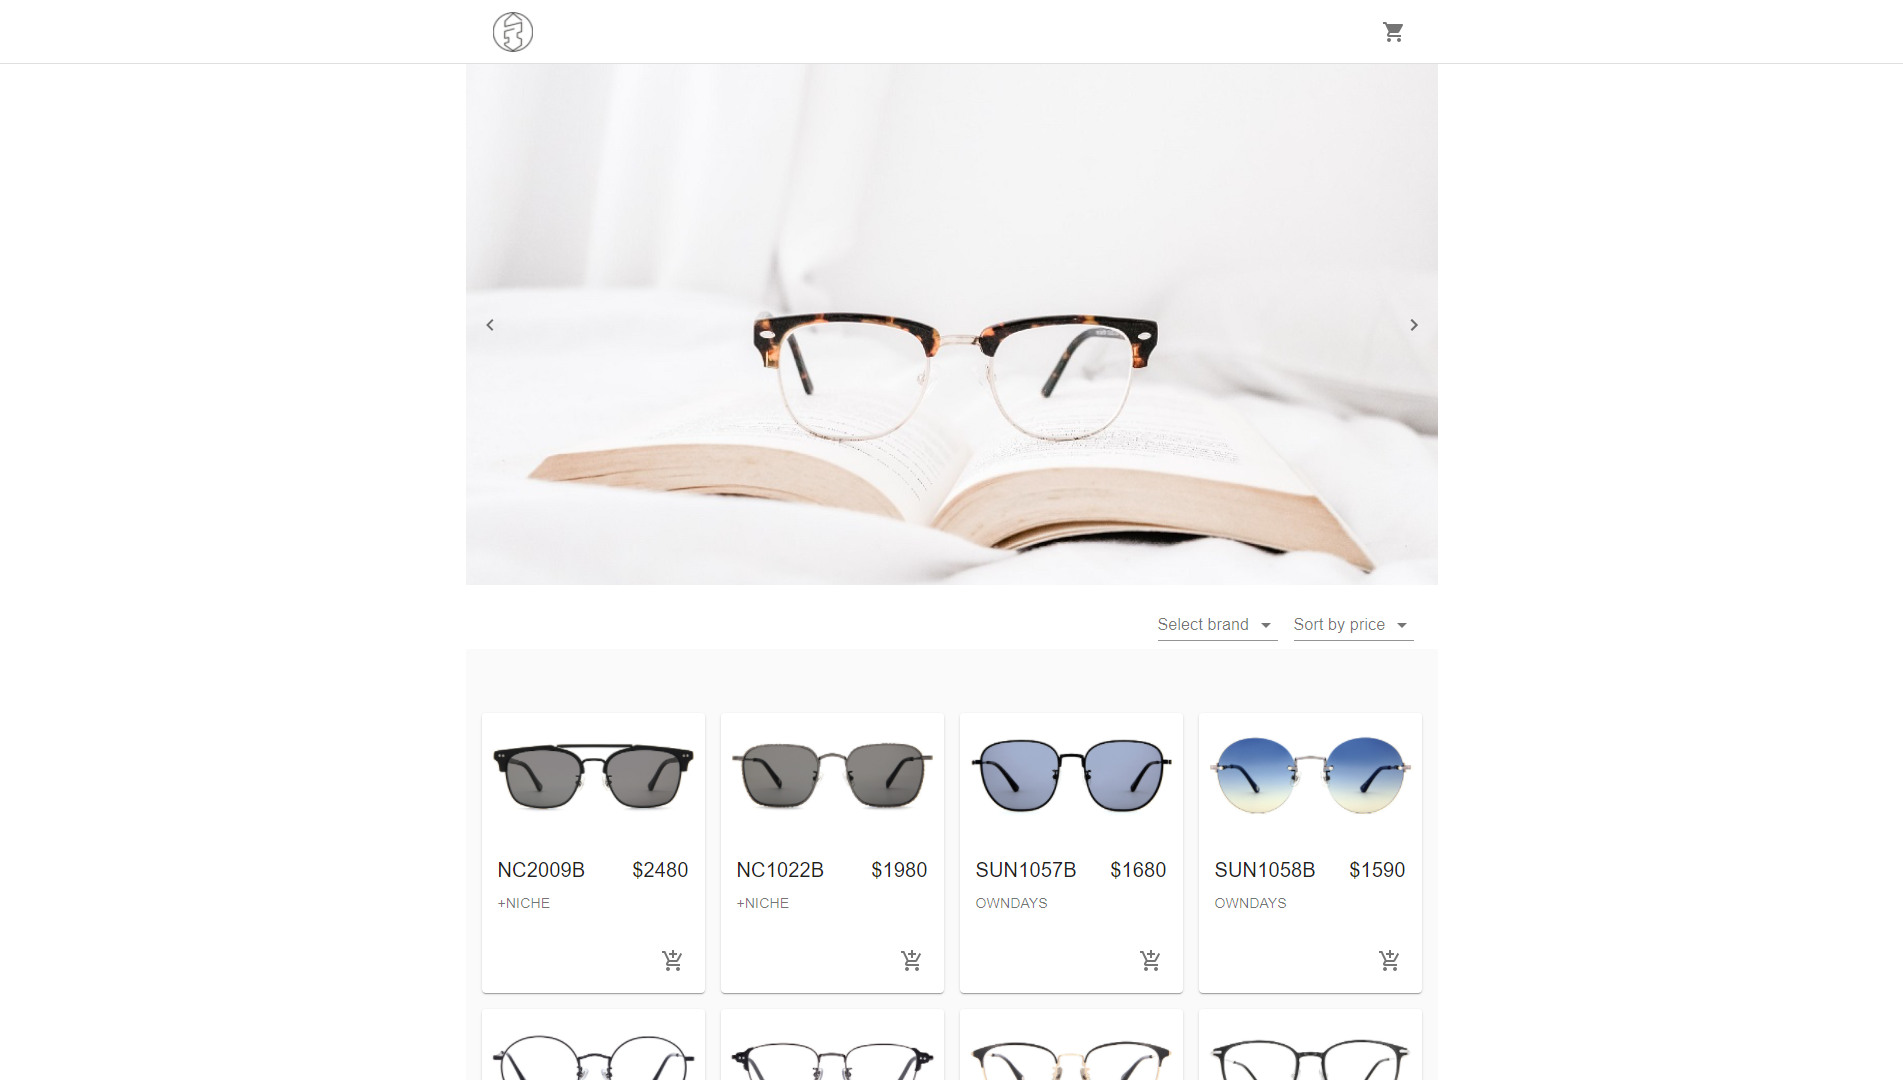
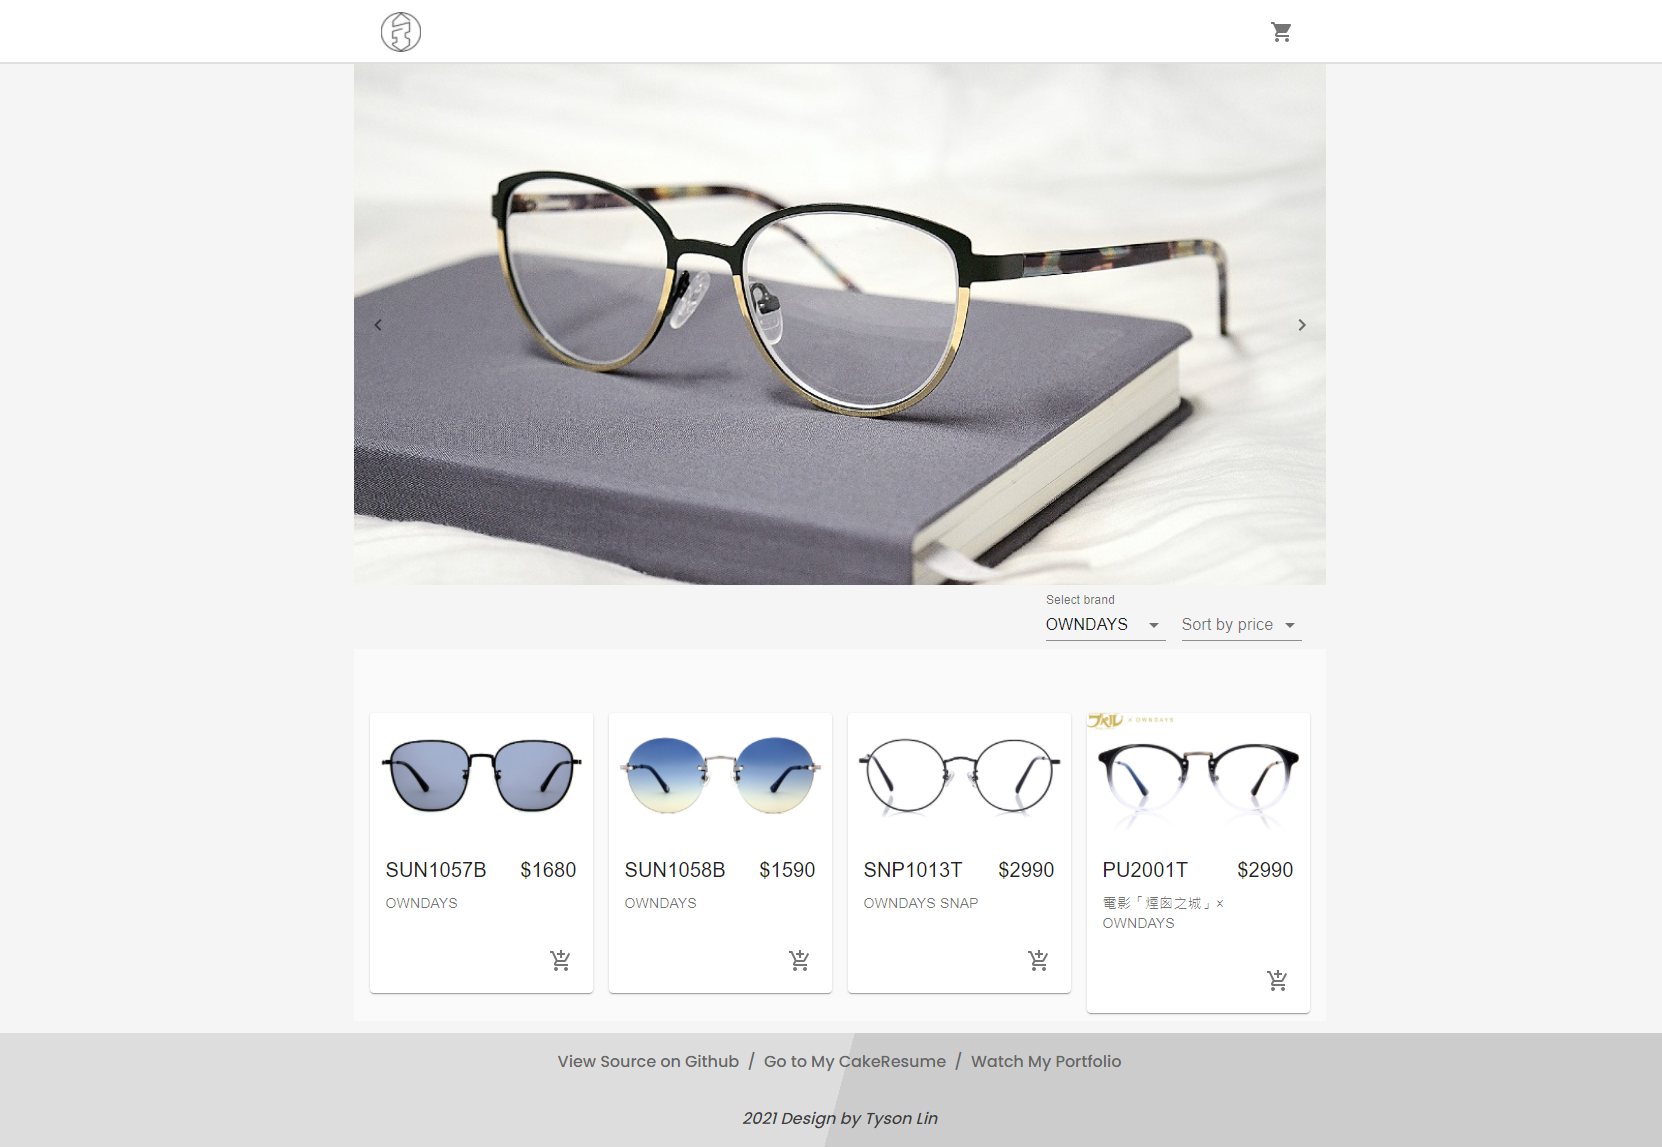
#20210427 1650 *新增footer *各組件樣式調整 *更新預覽圖 *更新README

diff --git a/src/components/Footer/Footer.jsx b/src/components/Footer/Footer.jsx
@@ -1,0 +1,60 @@
+import React from 'react';
+import { makeStyles } from '@material-ui/core/styles';
+
+const useStyles = makeStyles((theme) => ({
+  '@import':'url("https://fonts.googleapis.com/css2?family=Poppins:wght@500&display=swap")',
+  footer: {
+    fontFamily: 'Poppins, sans-serif',
+    width: '100%',
+    background: 'linear-gradient(105deg,#ddd 50%,#ccc 50%)',
+    display: 'flex',
+    justifyContent: 'center',
+    alignItems: 'center',
+    flexDirection: 'column',
+    position: 'relative',
+    margin: '20px 0px 0px',
+    height:'auto',
+    '& div': {
+      display:'flex',
+      flexWrap:'wrap',
+      justifyContent:'center',
+      alignItems:'center',
+      color: '#666',
+      margin:'16px 0px',
+      '& a': {
+        textDecoration: 'none',
+        '&:visited': {
+          color: '#666',
+        },
+        '&:hover': {
+          color: '#999',
+        },
+        '&:link': {
+          color: '#666',
+        },
+      }
+    },
+    '& p':{
+      color:'#3c3c3c',
+      fontStyle:'italic',
+    }
+  },
+
+}))
+
+const Footer = () => {
+  const classes = useStyles();
+
+  return (
+    <div className={classes.footer}>
+      <div>
+        <span><a href="https://github.com/gn00667340/react-ecommerce">View Source on Github</a>&nbsp;&nbsp;/&nbsp;&nbsp;</span>
+        <span><a href="https://www.cakeresume.com/street85240-da66d3">Go to My CakeResume</a>&nbsp;&nbsp;/&nbsp;&nbsp;</span>
+        <span><a href="https://www.cakeresume.com/users/street85240/portfolio?ref=dashboard_navs_portfolio">Watch My Portfolio</a></span>
+      </div>
+      <p>2021 Design by Tyson Lin  </p>
+    </div>
+  )
+}
+
+export default Footer

diff --git a/src/App.js b/src/App.js
@@ -1,5 +1,6 @@
 import React, { useState, useEffect } from 'react';
-import { Products, Navbar, Selector, ImageCarousel } from './components';
+// import { BrowserRouter as Router, Route, Link } from 'react-router-dom';
+import { Products, Navbar, Selector, ImageCarousel, Footer } from './components';
 //import from index.js 集中導入維持code整潔
 import DataUsageSharpIcon from '@material-ui/icons/DataUsageSharp';
 import { makeStyles } from '@material-ui/core/styles';
@@ -8,6 +9,16 @@ import axios from 'axios';
 
 const useStyle = makeStyles((theme) => ({
   "@import": 'url(https://fonts.googleapis.com/css2?family=Zen+Dots&display=swap)',
+  "@global": {
+    body:{
+      boxSizing:'border-box',
+      margin:0,
+      padding:0,
+    },
+    html: {
+      backgroundColor: '#f5f5f5',
+    }
+  },
   loading: {
     position: 'absolute',
     left: '50%',
@@ -92,6 +103,7 @@ const App = () => {
           <ImageCarousel />
           <Selector setAllState={setAllState} allState={allState} />
           <Products products={allState.products} />
+          <Footer />
         </>
       }
     </>

diff --git a/src/components/Products/Product/AddCartButton.jsx b/src/components/Products/Product/AddCartButton.jsx
@@ -11,22 +11,22 @@ const useStyles = makeStyles(() => ({
     '&:after': {
       content: "'+1'",
       position: 'absolute',
-      animation: '$plus 0.5s',
+      animation: '$plus 0.7s ease-in-out',
       font: 'small-caps bold 24px sans-serif',
       color: 'orange',
     }
   },
   '@keyframes plus': {
-    'from': {
+    '0%': {
       transform: 'translateY(-15px)',
       opacity: '1'
     },
-    'to': {
+    '100%': {
       transform: 'translateY(-50px)',
       opacity: '0'
-    }
-  }
-}));
+    },
+  },
+  }));
 const AddCartButton = ({ product }) => {
   const dispatch = useDispatch();
   const [id, setId] = useState();
@@ -37,8 +37,8 @@ const AddCartButton = ({ product }) => {
     setId(product.id)
   }
   return (
-    <IconButton onClick={handleAddCart} className={id === product.id ? classes.plusOne : ''} onAnimationEnd={() => { setId() }}>
-      <AddShoppingCart />
+    <IconButton onClick={handleAddCart} className={id === product.id ? classes.plusOne : ''} onAnimationEnd={() => { setId() }} >
+      <AddShoppingCart/>
     </IconButton>
   )
 }

diff --git a/src/components/Carousel/ImageCarousel.jsx b/src/components/Carousel/ImageCarousel.jsx
@@ -11,7 +11,7 @@ const useStyles = makeStyles((theme) => ({
     width: '100%',
     display: 'flex',
     position: 'relative',
-    marginTop:'64px',
+    marginTop:'54px',
     animation:'$EaseIn 1s',
     [theme.breakpoints.up('md')]: {
       margin: '64px auto 0px',
@@ -110,7 +110,7 @@ const ImageCarousel = () => {
       <IconButton onClick={nextImage} className={classes.rightIcon} size='medium'>
         <ChevronRightSharp/>
       </IconButton>
-      <img src={image1} style={{width:'100%',opacity:'0'}} alt="empty"></img>
+      <img src={image1} style={{width:'100%',opacity:'0',height:'100%'}} alt="empty"/>
       {items.map((item, index) => (
         <div className={index === counter ? classes.slideActive : classes.slide} key={index} >
           {index === counter && (<img src={item.image} className={classes.image} alt={item.name} />)}

diff --git a/src/components/Navbar/Navbar.jsx b/src/components/Navbar/Navbar.jsx
@@ -6,15 +6,19 @@ import { useSelector, useDispatch } from 'react-redux';
 import { makeStyles } from '@material-ui/core/styles';
 import { ShoppingCart } from '@material-ui/icons';
 import { shakeShake } from '../../actions'
+// import { BrowserRouter as Router, Route, Link } from 'react-router-dom';
 
 const useStyles = makeStyles((theme) => ({
   appBar: {
     boxShadow: 'none',
-    borderBottom: '1px solid rgba(0, 0, 0, 0.12)',
+    borderBottom: '2px solid rgba(1, 1, 1, 0.12)',
     width: '100%',
     padding: '0px',
     margin:'0px',
-    height:'64px'
+    height:'56px',
+    [theme.breakpoints.up('md')]: {
+      height:'64px',
+    },
   },
   toolbar: {
     padding:'0px 0px',

diff --git a/src/components/Products/Product/Product.jsx b/src/components/Products/Product/Product.jsx
@@ -9,6 +9,10 @@ const Product = ({ product, index }) => {
       animation: '$app 600ms ease',
       animationDelay: `${index * 80}ms`,
       WebkitAnimationFillMode: 'backwards',
+      transition:'400ms ease',
+      '&:hover':{
+        transform:'scale(1.04)'
+      }
     },
     '@keyframes app': {
       '0%': {

diff --git a/src/components/index.js b/src/components/index.js
@@ -3,3 +3,4 @@ export { default as Navbar } from './Navbar/Navbar';
 export { default as Products } from './Products/Products';
 export { default as Selector } from './Selector/Selector';
 export { default as ImageCarousel } from './Carousel/ImageCarousel';
+export { default as Footer } from './Footer/Footer';

diff --git a/src/components/Products/Products.jsx b/src/components/Products/Products.jsx
@@ -8,6 +8,7 @@ const useStyles = makeStyles((theme)=>({
   content:{
     flexGrow:1,
     backgroundColor:theme.palette.background.default,
+    margin: '0px 10px',
     [theme.breakpoints.up('md')]: {
       width: 940,
       margin: '0px auto',

diff --git a/README.md b/README.md
@@ -15,7 +15,7 @@
 
 ## Technical Skills - 使用哪些技術實作專案
 
-- Create-react-app - 快速建立專案項目環境
+- Create-react-app - 快速建立React專案環境
 - Redux - 管理全域狀態
 - React-redux - 全域存取store權限
 - React-hooks - 使用useState建立區域狀態，使用useEffect搭配API串接
